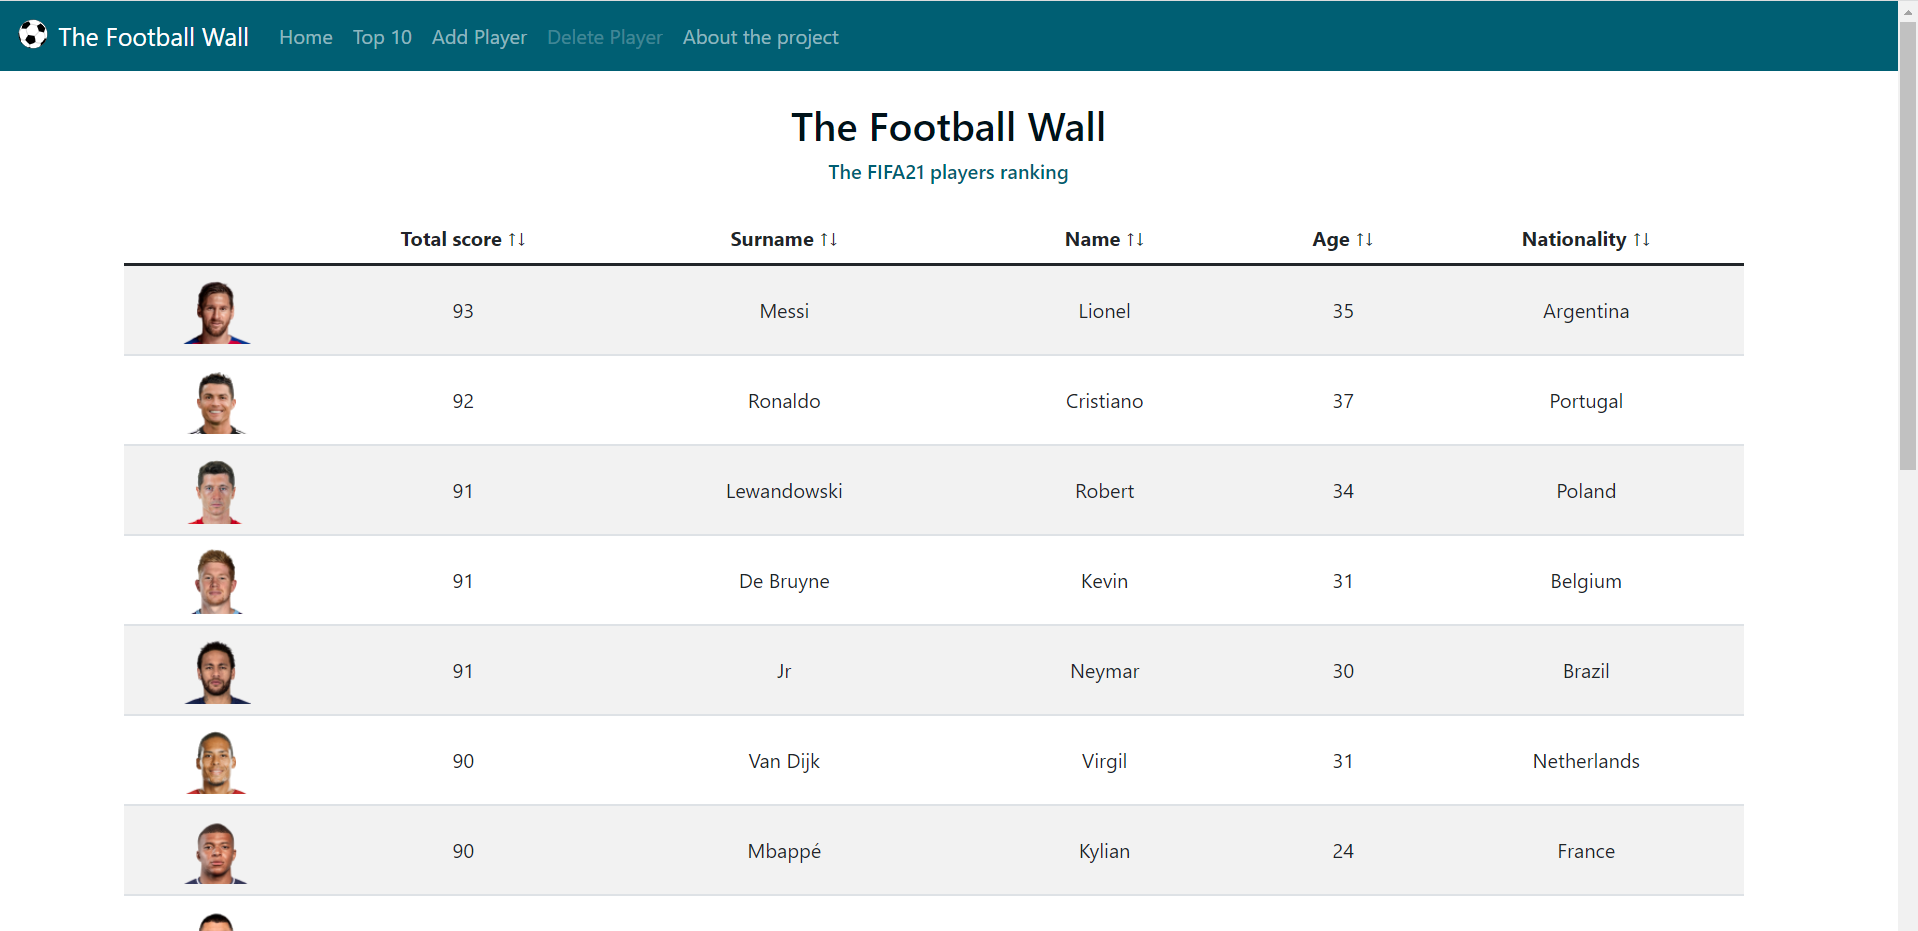
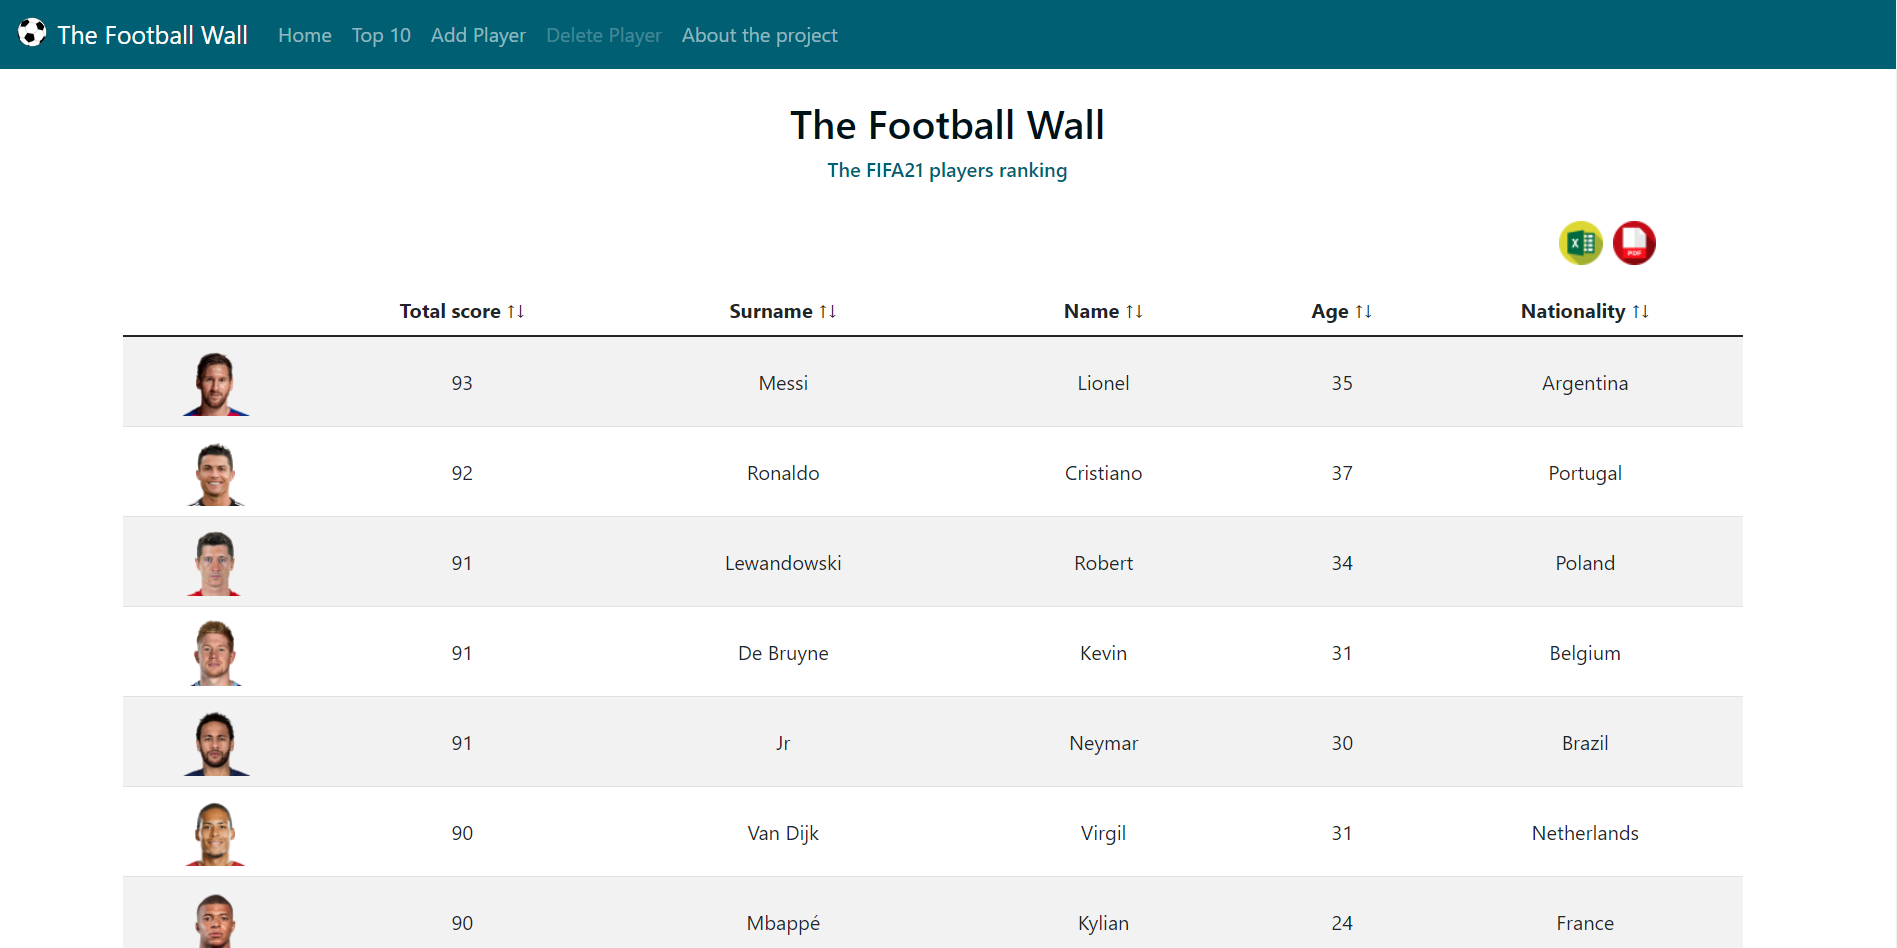
update readme

diff --git a/README.md b/README.md
@@ -106,6 +106,9 @@ To get a non-paginated table, the user can click on the "Full ranking" button, o
   <img alt="rankingpage" src="./img/rankingpage.png" width="450" title="rankingpage" style="border: 1px solid #555">
 
 This table has the possibility to get a custom order that the user can choose. This ordering is implemented in a static way: the table is build by a REST API call and once it was created the data inside the table rows can be manipulated with an alghorithm ([click here](https://www.w3schools.com/howto/howto_js_sort_table.asp) to see the algorithm used) that allows the user to choose the order of table.  
+
+On the top-right corner of the table, there are two buttons that allows the download of data in an Excel or PDF file.  
+The extracted data are orderd by descending total score.
   
 When you click on a table row, you choose to see more information about the player associated to the row and a page will be opened and dynamically builded. This page will builded by a REST API get call and shows the data about the selected player:
 
